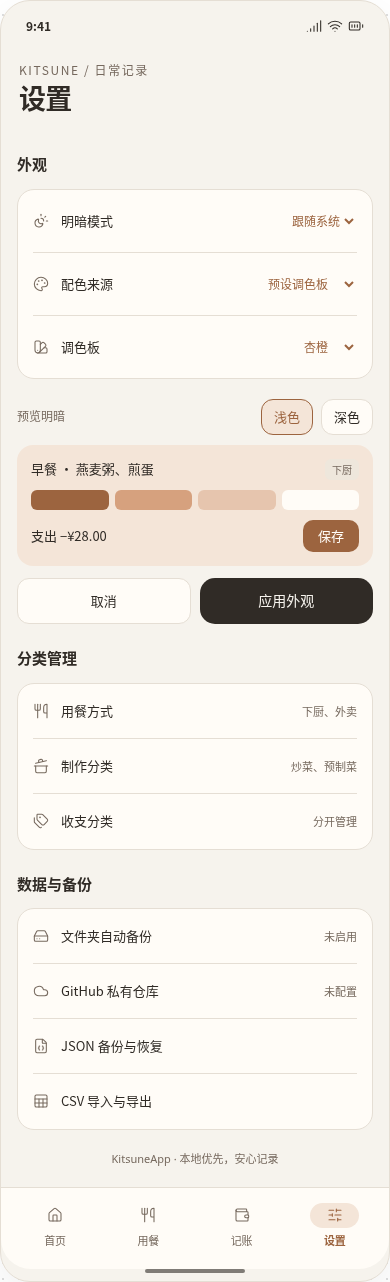
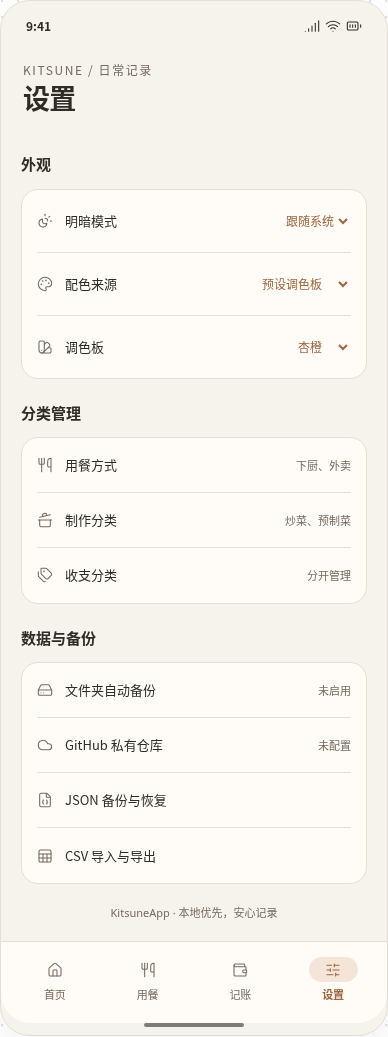
有未应用的外观修改时才显示设置预览

diff --git a/docs/ui/index.html b/docs/ui/index.html
@@ -2158,6 +2158,11 @@ html&gt;body{padding:0}&lt;/style&gt;
     const savedRange=saved?.[index]?.ledgerRange;
     if(savedRange&amp;&amp;isDate(savedRange.from)&amp;&amp;isDate(savedRange.to)&amp;&amp;savedRange.from&lt;=savedRange.to)state.ledgerRange={from:savedRange.from,to:savedRange.to};
     const appliedAppearance=()=&gt;({mode:style.mode,colorSource:style.colorSource,presetColor:style.presetColor,customColor:style.customColor});
+    const pendingAppearance=()=&gt;{
+      const draft=state.appearanceDraft,customColor=normalizeHex(draft.customColor);
+      return {...draft,customColor:draft.colorSource===&#x27;CUSTOM&#x27;?customColor:customColor||style.customColor};
+    };
+    const appearanceChanged=pending=&gt;Object.keys(pending).some(key=&gt;pending[key]!==style[key]);
     const resetAppearance=()=&gt;{state.appearanceDraft=appliedAppearance();state.previewMode=null;};
     resetAppearance();
     const colorSeed=theme=&gt;theme.colorSource===&#x27;SYSTEM&#x27;?demoSystemSeed:theme.colorSource===&#x27;CUSTOM&#x27;?(normalizeHex(theme.customColor)||style.customColor):theme.presetColor;
@@ -2377,10 +2382,12 @@ html&gt;body{padding:0}&lt;/style&gt;
         ${draft.colorSource===&#x27;CUSTOM&#x27;?`&lt;label class=&quot;ks-custom-color-row&quot;&gt;&lt;input type=&quot;color&quot; data-custom-picker aria-label=&quot;选择主色&quot; value=&quot;${normalizeHex(draft.customColor)||style.customColor}&quot;&gt;&lt;input type=&quot;text&quot; data-custom-hex aria-label=&quot;主色 HEX&quot; value=&quot;${escapeText(draft.customColor)}&quot; placeholder=&quot;#C47A4A&quot; maxlength=&quot;7&quot; spellcheck=&quot;false&quot;&gt;&lt;/label&gt;`:&#x27;&#x27;}
         ${draft.colorSource===&#x27;SYSTEM&#x27;?`&lt;div class=&quot;ks-setting&quot;&gt;${icon(&#x27;sparkles&#x27;)}&lt;span&gt;使用系统壁纸配色&lt;/span&gt;&lt;small&gt;Android 12+&lt;/small&gt;&lt;/div&gt;`:&#x27;&#x27;}
       &lt;/div&gt;
-      ${draft.colorSource===&#x27;SYSTEM&#x27;?&#x27;&lt;p class=&quot;ks-appearance-note&quot;&gt;此处使用示意色板，真实配色由手机系统提供。&lt;/p&gt;&#x27;:&#x27;&#x27;}
-      &lt;div class=&quot;ks-preview-modes&quot; role=&quot;group&quot; aria-label=&quot;预览明暗&quot;&gt;&lt;span class=&quot;ks-note&quot;&gt;预览明暗&lt;/span&gt;&lt;div class=&quot;ks-choices&quot;&gt;${themeModes.slice(1).map(([value,label])=&gt;choice(label,value,null,&#x27;preview-mode&#x27;)).join(&#x27;&#x27;)}&lt;/div&gt;&lt;/div&gt;
-      &lt;div class=&quot;ks-appearance-preview&quot; data-appearance-preview aria-label=&quot;配色预览&quot;&gt;&lt;div class=&quot;ks-row&quot;&gt;&lt;span&gt;早餐 · 燕麦粥、煎蛋&lt;/span&gt;&lt;span class=&quot;ks-pill&quot;&gt;下厨&lt;/span&gt;&lt;/div&gt;&lt;div class=&quot;ks-theme-swatches&quot; aria-hidden=&quot;true&quot;&gt;&lt;span&gt;&lt;/span&gt;&lt;span&gt;&lt;/span&gt;&lt;span&gt;&lt;/span&gt;&lt;span&gt;&lt;/span&gt;&lt;/div&gt;&lt;div class=&quot;ks-row&quot;&gt;&lt;span&gt;支出 −¥28.00&lt;/span&gt;&lt;span style=&quot;background:var(--ks-accent);color:var(--ks-paper);padding:6px 15px;border-radius:10px&quot;&gt;保存&lt;/span&gt;&lt;/div&gt;&lt;/div&gt;
-      &lt;p class=&quot;ks-error&quot; data-appearance-error role=&quot;alert&quot;&gt;&lt;/p&gt;&lt;div class=&quot;ks-appearance-actions&quot;&gt;&lt;button type=&quot;button&quot; class=&quot;ks-choice cursor-interaction&quot; data-action=&quot;cancel-appearance&quot;&gt;取消&lt;/button&gt;&lt;button type=&quot;button&quot; class=&quot;ks-primary cursor-interaction&quot; data-action=&quot;apply-appearance&quot;&gt;应用外观&lt;/button&gt;&lt;/div&gt;
+      &lt;div data-appearance-editor hidden&gt;
+        ${draft.colorSource===&#x27;SYSTEM&#x27;?&#x27;&lt;p class=&quot;ks-appearance-note&quot;&gt;此处使用示意色板，真实配色由手机系统提供。&lt;/p&gt;&#x27;:&#x27;&#x27;}
+        &lt;div class=&quot;ks-preview-modes&quot; role=&quot;group&quot; aria-label=&quot;预览明暗&quot;&gt;&lt;span class=&quot;ks-note&quot;&gt;预览明暗&lt;/span&gt;&lt;div class=&quot;ks-choices&quot;&gt;${themeModes.slice(1).map(([value,label])=&gt;choice(label,value,null,&#x27;preview-mode&#x27;)).join(&#x27;&#x27;)}&lt;/div&gt;&lt;/div&gt;
+        &lt;div class=&quot;ks-appearance-preview&quot; data-appearance-preview aria-label=&quot;配色预览&quot;&gt;&lt;div class=&quot;ks-row&quot;&gt;&lt;span&gt;早餐 · 燕麦粥、煎蛋&lt;/span&gt;&lt;span class=&quot;ks-pill&quot;&gt;下厨&lt;/span&gt;&lt;/div&gt;&lt;div class=&quot;ks-theme-swatches&quot; aria-hidden=&quot;true&quot;&gt;&lt;span&gt;&lt;/span&gt;&lt;span&gt;&lt;/span&gt;&lt;span&gt;&lt;/span&gt;&lt;span&gt;&lt;/span&gt;&lt;/div&gt;&lt;div class=&quot;ks-row&quot;&gt;&lt;span&gt;支出 −¥28.00&lt;/span&gt;&lt;span style=&quot;background:var(--ks-accent);color:var(--ks-paper);padding:6px 15px;border-radius:10px&quot;&gt;保存&lt;/span&gt;&lt;/div&gt;&lt;/div&gt;
+        &lt;p class=&quot;ks-error&quot; data-appearance-error role=&quot;alert&quot;&gt;&lt;/p&gt;&lt;div class=&quot;ks-appearance-actions&quot;&gt;&lt;button type=&quot;button&quot; class=&quot;ks-choice cursor-interaction&quot; data-action=&quot;cancel-appearance&quot;&gt;取消&lt;/button&gt;&lt;button type=&quot;button&quot; class=&quot;ks-primary cursor-interaction&quot; data-action=&quot;apply-appearance&quot;&gt;应用外观&lt;/button&gt;&lt;/div&gt;
+      &lt;/div&gt;
       ${section(&#x27;分类管理&#x27;)}&lt;div class=&quot;ks-settings&quot;&gt;&lt;div class=&quot;ks-setting&quot;&gt;${icon(&#x27;utensils&#x27;)}&lt;span&gt;用餐方式&lt;/span&gt;&lt;small&gt;下厨、外卖&lt;/small&gt;&lt;/div&gt;&lt;div class=&quot;ks-setting&quot;&gt;${icon(&#x27;cooking-pot&#x27;)}&lt;span&gt;制作分类&lt;/span&gt;&lt;small&gt;炒菜、预制菜&lt;/small&gt;&lt;/div&gt;&lt;div class=&quot;ks-setting&quot;&gt;${icon(&#x27;tags&#x27;)}&lt;span&gt;收支分类&lt;/span&gt;&lt;small&gt;分开管理&lt;/small&gt;&lt;/div&gt;&lt;/div&gt;${section(&#x27;数据与备份&#x27;)}&lt;div class=&quot;ks-settings&quot;&gt;&lt;div class=&quot;ks-setting&quot;&gt;${icon(&#x27;hard-drive&#x27;)}&lt;span&gt;文件夹自动备份&lt;/span&gt;&lt;small&gt;未启用&lt;/small&gt;&lt;/div&gt;&lt;div class=&quot;ks-setting&quot;&gt;${icon(&#x27;cloud&#x27;)}&lt;span&gt;GitHub 私有仓库&lt;/span&gt;&lt;small&gt;未配置&lt;/small&gt;&lt;/div&gt;&lt;div class=&quot;ks-setting&quot;&gt;${icon(&#x27;file-json&#x27;)}&lt;span&gt;JSON 备份与恢复&lt;/span&gt;&lt;/div&gt;&lt;div class=&quot;ks-setting&quot;&gt;${icon(&#x27;sheet&#x27;)}&lt;span&gt;CSV 导入与导出&lt;/span&gt;&lt;/div&gt;&lt;/div&gt;&lt;p class=&quot;ks-footnote&quot;&gt;KitsuneApp · 本地优先，安心记录&lt;/p&gt;`;
     }
     function pageMealForm(){return `&lt;form class=&quot;ks-form&quot; data-meal-form&gt;
@@ -2430,14 +2437,17 @@ html&gt;body{padding:0}&lt;/style&gt;
     function capture(){const form=phone.querySelector(&#x27;[data-meal-form]&#x27;);if(form){state.dishes=form.elements.dishes.value;state.note=form.elements.note.value;state.date=form.elements.date.value;state.slot=Number(form.elements.slot.value);}const entry=phone.querySelector(&#x27;[data-entry-form]&#x27;);if(entry){state.amount=entry.elements.amount.value;state.entryDraft={dateTime:entry.elements.dateTime.value,note:entry.elements.note.value,category:entry.elements.category.value,walletId:entry.elements.wallet.value};}}
     function error(message){phone.querySelector(&#x27;.ks-error&#x27;).textContent=message;}
     function updateAppearancePreview(){
-      const preview=phone.querySelector(&#x27;[data-appearance-preview]&#x27;);
-      if(!preview)return;
+      const editor=phone.querySelector(&#x27;[data-appearance-editor]&#x27;);
+      if(!editor)return;
+      editor.hidden=!appearanceChanged(pendingAppearance());
+      if(editor.hidden){state.previewMode=null;return;}
+      const preview=editor.querySelector(&#x27;[data-appearance-preview]&#x27;);
       const draft=state.appearanceDraft;
       const preferredMode=draft.mode===&#x27;system&#x27;?(systemDark.matches?&#x27;dark&#x27;:&#x27;light&#x27;):draft.mode;
       const mode=state.previewMode||preferredMode;
       preview.style.colorScheme=mode;
       paintColors(preview,colorSeed(draft),draft.colorSource===&#x27;SYSTEM&#x27;);
-      for(const button of phone.querySelectorAll(&#x27;[data-preview-mode]&#x27;))button.setAttribute(&#x27;aria-pressed&#x27;,String(button.dataset.previewMode===mode));
+      for(const button of editor.querySelectorAll(&#x27;[data-preview-mode]&#x27;))button.setAttribute(&#x27;aria-pressed&#x27;,String(button.dataset.previewMode===mode));
     }
     function pageEntryDetail(){const e=financialEntries().find(e=&gt;e.id===state.selectedEntryId);if(!e)return &#x27;&lt;p class=&quot;ks-empty-state&quot;&gt;这笔账目已不存在&lt;/p&gt;&#x27;;const w=walletById(e.walletId);return `&lt;section class=&quot;ks-entry-detail&quot;&gt;&lt;div class=&quot;ks-detail-amount&quot;&gt;&lt;span class=&quot;ks-note&quot;&gt;${e.type} · ${w.code}&lt;/span&gt;&lt;div class=&quot;ks-amount&quot;&gt;${e.type===&#x27;支出&#x27;?&#x27;-&#x27;:&#x27;+&#x27;}¥${money(e.cents,w.code)}&lt;/div&gt;&lt;/div&gt;&lt;dl class=&quot;ks-detail-list&quot;&gt;${[[&#x27;日期时间&#x27;,`${e.date} ${e.time}`],[&#x27;钱包&#x27;,`${w.name} · ${w.code}`],[&#x27;分类&#x27;,entryCategory(e)],[&#x27;备注&#x27;,e.note||&#x27;无&#x27;]].map(([label,value])=&gt;`&lt;div&gt;&lt;dt&gt;${label}&lt;/dt&gt;&lt;dd&gt;${escapeText(value)}&lt;/dd&gt;&lt;/div&gt;`).join(&#x27;&#x27;)}&lt;/dl&gt;${deleteButton(&#x27;entry&#x27;,&#x27;删除这笔账目&#x27;)}&lt;p class=&quot;ks-footnote&quot;&gt;交互预览 · 示例数据&lt;/p&gt;&lt;/section&gt;`;}
     function deleteConfirmation(){const p=state.deletePending;return `&lt;div class=&quot;ks-modal-overlay ks-delete-overlay&quot;&gt;&lt;section class=&quot;ks-delete-sheet&quot; role=&quot;alertdialog&quot; aria-modal=&quot;true&quot; aria-label=&quot;确认删除记录&quot;&gt;&lt;h3&gt;${p.kind===&#x27;meal&#x27;?&#x27;删除这条用餐记录？&#x27;:&#x27;删除这笔账目？&#x27;}&lt;/h3&gt;&lt;p class=&quot;ks-delete-summary&quot;&gt;${escapeText(p.summary)}&lt;/p&gt;&lt;p class=&quot;ks-note&quot;&gt;${p.kind===&#x27;meal&#x27;?&#x27;删除后，将更新今日进度、月度及全部记录统计。&#x27;:&#x27;删除后，将更新流水、收支统计和钱包余额。&#x27;}&lt;/p&gt;&lt;p class=&quot;ks-error&quot; role=&quot;alert&quot; data-delete-error&gt;&lt;/p&gt;&lt;div class=&quot;ks-calc-actions&quot;&gt;&lt;button type=&quot;button&quot; class=&quot;ks-choice cursor-interaction&quot; data-delete-action=&quot;cancel&quot;&gt;取消&lt;/button&gt;&lt;button type=&quot;button&quot; class=&quot;ks-primary ks-danger-confirm cursor-interaction&quot; data-delete-action=&quot;confirm&quot;&gt;确认删除&lt;/button&gt;&lt;/div&gt;&lt;/section&gt;&lt;/div&gt;`;}
@@ -2464,11 +2474,10 @@ html&gt;body{padding:0}&lt;/style&gt;
       if(b.dataset.previewMode){state.previewMode=b.dataset.previewMode;updateAppearancePreview();return;}
       if(b.dataset.action===&#x27;cancel-appearance&#x27;){resetAppearance();render();return;}
       if(b.dataset.action===&#x27;apply-appearance&#x27;){
-        const draft=state.appearanceDraft,custom=normalizeHex(draft.customColor);
-        if(draft.colorSource===&#x27;CUSTOM&#x27;&amp;&amp;!custom){phone.querySelector(&#x27;[data-appearance-error]&#x27;).textContent=&#x27;请输入六位 HEX 颜色，例如 #C47A4A。&#x27;;return;}
-        const next={...draft,customColor:custom||style.customColor};
-        const changed=JSON.stringify(appliedAppearance())!==JSON.stringify(next);
-        Object.assign(style,next);resetAppearance();applyStyle();state.notice=&#x27;已应用外观。&#x27;;render();if(changed)persist();return;
+        const next=pendingAppearance();
+        if(!appearanceChanged(next))return;
+        if(next.customColor===null){phone.querySelector(&#x27;[data-appearance-error]&#x27;).textContent=&#x27;请输入六位 HEX 颜色，例如 #C47A4A。&#x27;;return;}
+        Object.assign(style,next);resetAppearance();applyStyle();state.notice=&#x27;已应用外观。&#x27;;render();persist();return;
       }
       if(b.dataset.action===&#x27;edit-ledger-range&#x27;){
         state.ledgerRangeOpen=!state.ledgerRangeOpen;render();
@@ -2518,7 +2527,15 @@ html&gt;body{padding:0}&lt;/style&gt;
       if(e.matches(&#x27;[data-date-input]&#x27;)){state.date=e.value||&#x27;2026-11-17&#x27;;render();}
       if(e.matches(&#x27;[data-meal-form] [name=slot]&#x27;)){capture();render();}
     });
-    phone.addEventListener(&#x27;input&#x27;,event=&gt;{const e=event.target;if(e.matches(&#x27;[data-custom-picker],[data-custom-hex]&#x27;)){state.appearanceDraft.customColor=e.value;const normalized=normalizeHex(e.value),picker=phone.querySelector(&#x27;[data-custom-picker]&#x27;),hex=phone.querySelector(&#x27;[data-custom-hex]&#x27;);if(e.matches(&#x27;[data-custom-picker]&#x27;))hex.value=e.value.toUpperCase();if(normalized){picker.value=normalized;phone.querySelector(&#x27;[data-appearance-error]&#x27;).textContent=&#x27;&#x27;;updateAppearancePreview();}}});
+    phone.addEventListener(&#x27;input&#x27;,event=&gt;{
+      const e=event.target;
+      if(!e.matches(&#x27;[data-custom-picker],[data-custom-hex]&#x27;))return;
+      state.appearanceDraft.customColor=e.value;
+      const normalized=normalizeHex(e.value);
+      if(e.matches(&#x27;[data-custom-picker]&#x27;))phone.querySelector(&#x27;[data-custom-hex]&#x27;).value=normalized;
+      if(normalized){phone.querySelector(&#x27;[data-custom-picker]&#x27;).value=normalized;phone.querySelector(&#x27;[data-appearance-error]&#x27;).textContent=&#x27;&#x27;;}
+      updateAppearancePreview();
+    });
     phone.addEventListener(&#x27;submit&#x27;,event=&gt;{
       event.preventDefault();const f=event.target;capture();
       if(f.matches(&#x27;[data-ledger-range-form]&#x27;)){

diff --git a/docs/ui/kitsune-ui.fragment.html b/docs/ui/kitsune-ui.fragment.html
@@ -267,6 +267,11 @@
     const savedRange=saved?.[index]?.ledgerRange;
     if(savedRange&&isDate(savedRange.from)&&isDate(savedRange.to)&&savedRange.from<=savedRange.to)state.ledgerRange={from:savedRange.from,to:savedRange.to};
     const appliedAppearance=()=>({mode:style.mode,colorSource:style.colorSource,presetColor:style.presetColor,customColor:style.customColor});
+    const pendingAppearance=()=>{
+      const draft=state.appearanceDraft,customColor=normalizeHex(draft.customColor);
+      return {...draft,customColor:draft.colorSource==='CUSTOM'?customColor:customColor||style.customColor};
+    };
+    const appearanceChanged=pending=>Object.keys(pending).some(key=>pending[key]!==style[key]);
     const resetAppearance=()=>{state.appearanceDraft=appliedAppearance();state.previewMode=null;};
     resetAppearance();
     const colorSeed=theme=>theme.colorSource==='SYSTEM'?demoSystemSeed:theme.colorSource==='CUSTOM'?(normalizeHex(theme.customColor)||style.customColor):theme.presetColor;
@@ -486,10 +491,12 @@
         ${draft.colorSource==='CUSTOM'?`<label class="ks-custom-color-row"><input type="color" data-custom-picker aria-label="选择主色" value="${normalizeHex(draft.customColor)||style.customColor}"><input type="text" data-custom-hex aria-label="主色 HEX" value="${escapeText(draft.customColor)}" placeholder="#C47A4A" maxlength="7" spellcheck="false"></label>`:''}
         ${draft.colorSource==='SYSTEM'?`<div class="ks-setting">${icon('sparkles')}<span>使用系统壁纸配色</span><small>Android 12+</small></div>`:''}
       </div>
-      ${draft.colorSource==='SYSTEM'?'<p class="ks-appearance-note">此处使用示意色板，真实配色由手机系统提供。</p>':''}
-      <div class="ks-preview-modes" role="group" aria-label="预览明暗"><span class="ks-note">预览明暗</span><div class="ks-choices">${themeModes.slice(1).map(([value,label])=>choice(label,value,null,'preview-mode')).join('')}</div></div>
-      <div class="ks-appearance-preview" data-appearance-preview aria-label="配色预览"><div class="ks-row"><span>早餐 · 燕麦粥、煎蛋</span><span class="ks-pill">下厨</span></div><div class="ks-theme-swatches" aria-hidden="true"><span></span><span></span><span></span><span></span></div><div class="ks-row"><span>支出 −¥28.00</span><span style="background:var(--ks-accent);color:var(--ks-paper);padding:6px 15px;border-radius:10px">保存</span></div></div>
-      <p class="ks-error" data-appearance-error role="alert"></p><div class="ks-appearance-actions"><button type="button" class="ks-choice cursor-interaction" data-action="cancel-appearance">取消</button><button type="button" class="ks-primary cursor-interaction" data-action="apply-appearance">应用外观</button></div>
+      <div data-appearance-editor hidden>
+        ${draft.colorSource==='SYSTEM'?'<p class="ks-appearance-note">此处使用示意色板，真实配色由手机系统提供。</p>':''}
+        <div class="ks-preview-modes" role="group" aria-label="预览明暗"><span class="ks-note">预览明暗</span><div class="ks-choices">${themeModes.slice(1).map(([value,label])=>choice(label,value,null,'preview-mode')).join('')}</div></div>
+        <div class="ks-appearance-preview" data-appearance-preview aria-label="配色预览"><div class="ks-row"><span>早餐 · 燕麦粥、煎蛋</span><span class="ks-pill">下厨</span></div><div class="ks-theme-swatches" aria-hidden="true"><span></span><span></span><span></span><span></span></div><div class="ks-row"><span>支出 −¥28.00</span><span style="background:var(--ks-accent);color:var(--ks-paper);padding:6px 15px;border-radius:10px">保存</span></div></div>
+        <p class="ks-error" data-appearance-error role="alert"></p><div class="ks-appearance-actions"><button type="button" class="ks-choice cursor-interaction" data-action="cancel-appearance">取消</button><button type="button" class="ks-primary cursor-interaction" data-action="apply-appearance">应用外观</button></div>
+      </div>
       ${section('分类管理')}<div class="ks-settings"><div class="ks-setting">${icon('utensils')}<span>用餐方式</span><small>下厨、外卖</small></div><div class="ks-setting">${icon('cooking-pot')}<span>制作分类</span><small>炒菜、预制菜</small></div><div class="ks-setting">${icon('tags')}<span>收支分类</span><small>分开管理</small></div></div>${section('数据与备份')}<div class="ks-settings"><div class="ks-setting">${icon('hard-drive')}<span>文件夹自动备份</span><small>未启用</small></div><div class="ks-setting">${icon('cloud')}<span>GitHub 私有仓库</span><small>未配置</small></div><div class="ks-setting">${icon('file-json')}<span>JSON 备份与恢复</span></div><div class="ks-setting">${icon('sheet')}<span>CSV 导入与导出</span></div></div><p class="ks-footnote">KitsuneApp · 本地优先，安心记录</p>`;
     }
     function pageMealForm(){return `<form class="ks-form" data-meal-form>
@@ -539,14 +546,17 @@
     function capture(){const form=phone.querySelector('[data-meal-form]');if(form){state.dishes=form.elements.dishes.value;state.note=form.elements.note.value;state.date=form.elements.date.value;state.slot=Number(form.elements.slot.value);}const entry=phone.querySelector('[data-entry-form]');if(entry){state.amount=entry.elements.amount.value;state.entryDraft={dateTime:entry.elements.dateTime.value,note:entry.elements.note.value,category:entry.elements.category.value,walletId:entry.elements.wallet.value};}}
     function error(message){phone.querySelector('.ks-error').textContent=message;}
     function updateAppearancePreview(){
-      const preview=phone.querySelector('[data-appearance-preview]');
-      if(!preview)return;
+      const editor=phone.querySelector('[data-appearance-editor]');
+      if(!editor)return;
+      editor.hidden=!appearanceChanged(pendingAppearance());
+      if(editor.hidden){state.previewMode=null;return;}
+      const preview=editor.querySelector('[data-appearance-preview]');
       const draft=state.appearanceDraft;
       const preferredMode=draft.mode==='system'?(systemDark.matches?'dark':'light'):draft.mode;
       const mode=state.previewMode||preferredMode;
       preview.style.colorScheme=mode;
       paintColors(preview,colorSeed(draft),draft.colorSource==='SYSTEM');
-      for(const button of phone.querySelectorAll('[data-preview-mode]'))button.setAttribute('aria-pressed',String(button.dataset.previewMode===mode));
+      for(const button of editor.querySelectorAll('[data-preview-mode]'))button.setAttribute('aria-pressed',String(button.dataset.previewMode===mode));
     }
     function pageEntryDetail(){const e=financialEntries().find(e=>e.id===state.selectedEntryId);if(!e)return '<p class="ks-empty-state">这笔账目已不存在</p>';const w=walletById(e.walletId);return `<section class="ks-entry-detail"><div class="ks-detail-amount"><span class="ks-note">${e.type} · ${w.code}</span><div class="ks-amount">${e.type==='支出'?'-':'+'}¥${money(e.cents,w.code)}</div></div><dl class="ks-detail-list">${[['日期时间',`${e.date} ${e.time}`],['钱包',`${w.name} · ${w.code}`],['分类',entryCategory(e)],['备注',e.note||'无']].map(([label,value])=>`<div><dt>${label}</dt><dd>${escapeText(value)}</dd></div>`).join('')}</dl>${deleteButton('entry','删除这笔账目')}<p class="ks-footnote">交互预览 · 示例数据</p></section>`;}
     function deleteConfirmation(){const p=state.deletePending;return `<div class="ks-modal-overlay ks-delete-overlay"><section class="ks-delete-sheet" role="alertdialog" aria-modal="true" aria-label="确认删除记录"><h3>${p.kind==='meal'?'删除这条用餐记录？':'删除这笔账目？'}</h3><p class="ks-delete-summary">${escapeText(p.summary)}</p><p class="ks-note">${p.kind==='meal'?'删除后，将更新今日进度、月度及全部记录统计。':'删除后，将更新流水、收支统计和钱包余额。'}</p><p class="ks-error" role="alert" data-delete-error></p><div class="ks-calc-actions"><button type="button" class="ks-choice cursor-interaction" data-delete-action="cancel">取消</button><button type="button" class="ks-primary ks-danger-confirm cursor-interaction" data-delete-action="confirm">确认删除</button></div></section></div>`;}
@@ -573,11 +583,10 @@
       if(b.dataset.previewMode){state.previewMode=b.dataset.previewMode;updateAppearancePreview();return;}
       if(b.dataset.action==='cancel-appearance'){resetAppearance();render();return;}
       if(b.dataset.action==='apply-appearance'){
-        const draft=state.appearanceDraft,custom=normalizeHex(draft.customColor);
-        if(draft.colorSource==='CUSTOM'&&!custom){phone.querySelector('[data-appearance-error]').textContent='请输入六位 HEX 颜色，例如 #C47A4A。';return;}
-        const next={...draft,customColor:custom||style.customColor};
-        const changed=JSON.stringify(appliedAppearance())!==JSON.stringify(next);
-        Object.assign(style,next);resetAppearance();applyStyle();state.notice='已应用外观。';render();if(changed)persist();return;
+        const next=pendingAppearance();
+        if(!appearanceChanged(next))return;
+        if(next.customColor===null){phone.querySelector('[data-appearance-error]').textContent='请输入六位 HEX 颜色，例如 #C47A4A。';return;}
+        Object.assign(style,next);resetAppearance();applyStyle();state.notice='已应用外观。';render();persist();return;
       }
       if(b.dataset.action==='edit-ledger-range'){
         state.ledgerRangeOpen=!state.ledgerRangeOpen;render();
@@ -627,7 +636,15 @@
       if(e.matches('[data-date-input]')){state.date=e.value||'2026-11-17';render();}
       if(e.matches('[data-meal-form] [name=slot]')){capture();render();}
     });
-    phone.addEventListener('input',event=>{const e=event.target;if(e.matches('[data-custom-picker],[data-custom-hex]')){state.appearanceDraft.customColor=e.value;const normalized=normalizeHex(e.value),picker=phone.querySelector('[data-custom-picker]'),hex=phone.querySelector('[data-custom-hex]');if(e.matches('[data-custom-picker]'))hex.value=e.value.toUpperCase();if(normalized){picker.value=normalized;phone.querySelector('[data-appearance-error]').textContent='';updateAppearancePreview();}}});
+    phone.addEventListener('input',event=>{
+      const e=event.target;
+      if(!e.matches('[data-custom-picker],[data-custom-hex]'))return;
+      state.appearanceDraft.customColor=e.value;
+      const normalized=normalizeHex(e.value);
+      if(e.matches('[data-custom-picker]'))phone.querySelector('[data-custom-hex]').value=normalized;
+      if(normalized){phone.querySelector('[data-custom-picker]').value=normalized;phone.querySelector('[data-appearance-error]').textContent='';}
+      updateAppearancePreview();
+    });
     phone.addEventListener('submit',event=>{
       event.preventDefault();const f=event.target;capture();
       if(f.matches('[data-ledger-range-form]')){

diff --git a/docs/ui/README.md b/docs/ui/README.md
@@ -38,8 +38,8 @@
 | 记一笔与独立计算器弹层 | [紧凑表单](screenshots/entry.png)、[计算器](screenshots/calculator.png) |
 | 账目详情与删除确认 | [详情](screenshots/entry-detail.png)、[删除确认](screenshots/delete-confirm.png) |
 | 流水、统计与钱包范围 | [月份流水](screenshots/ledger-flows.png)、[跨月按币种统计](screenshots/ledger-statistics.png)、[钱包选择](screenshots/wallet-filter.png) |
-| 设置 | [设置页面](screenshots/settings.png) |
-| 系统壁纸配色示意 | [配色来源与预览](screenshots/theme-system.png)、[应用后的首页](screenshots/theme-system-home.png) |
+| 设置 | [默认设置页面](screenshots/settings.png) |
+| 系统壁纸配色示意 | [修改配色来源后展开的预览](screenshots/theme-system.png)、[应用后的首页](screenshots/theme-system-home.png) |
 
 截图主要采用杏橙方案，固定演示日期为 2026-11-17；首页截图使用晚餐时段。完整的两套界面及当前时段推荐可以在交互预览中查看。
 
@@ -58,13 +58,15 @@
 
 演示没有登录功能，也不会连接 GitHub 或读写个人数据。演示记录、钱包余额及所有金额均为虚构样例；刷新后业务记录重新初始化，部分界面偏好可能由浏览器本地存储保留。
 
-“跟随系统壁纸”在网页中使用固定示意色板，正式应用将使用 Android 12 及以上系统提供的 Material 动态颜色。设置里的“预览明暗”只切换示例区域。“明暗模式”和配色来源先写入草稿，点“应用外观”才更新全局。切换来源保留上次预设／自选色。具体规则见 [PLAN 第 6 节](../PLAN.md#6-外观调色板与系统主题)。
+“跟随系统壁纸”在网页中使用固定示意色板，正式应用将使用 Android 12 及以上系统提供的 Material 动态颜色。设置里有未应用的外观修改时才显示预览、“取消”和“应用外观”。应用成功、取消或改回已应用值后收起预览区。“预览明暗”只切换示例区域。切换来源保留上次预设／自选色。具体规则见 [PLAN 第 6 节](../PLAN.md#6-外观调色板与系统主题)。
 
 日期、分类、钱包、ID 与金额的演示结构不是正式 JSON／CSV 数据格式。正式开发需按 DATA_FORMAT 建模，按 PLAN 完成转账原子性、退款保护、金额范围和精度、备份、分类生命周期等全部规则，不能把网页的演示限额、固定选项或简单数组当作完整实现。
 
 ## 实际验证
 
 2026-11-21 在离线 Chromium 中验证了两套方案的浅色和深色界面，覆盖 320 CSS px 窄屏视口与约 390 CSS px 标准手机画布。核对两模块的记录行、图标和保存按钮样式，并走查用餐录入、必填检查、筛选、统计与删除取消，以及账本的日期范围、钱包选择器、计算器回填、保存和删除。受影响的截图已刷新，并补充用餐编辑快照。
+
+同日走查两套方案在上述尺寸和明暗组合下的设置页。验证默认隐藏、编辑后展开、取消／应用／手动改回后收起、无效 HEX 拦截，以及应用后切换页面保持新外观。设置页及展开预览截图已更新。
 
 2026-11-18 使用无头 Chromium 以离线模式加载仓库的独立预览文件，在 320／390 CSS px 手机画布上检查了以下场景。
 
